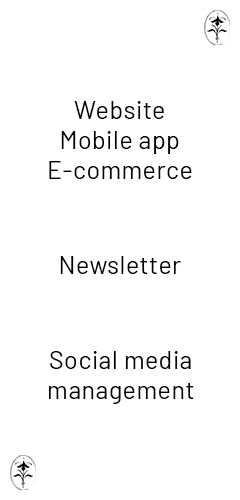
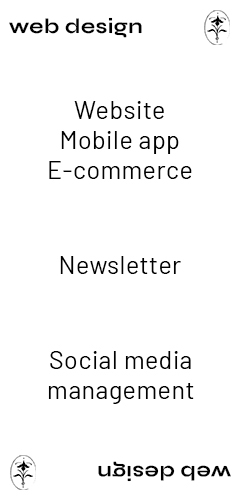
cartes

Changed region(s): [[0.0292, 0.03, 0.6125, 0.09], [0.4083, 0.9, 0.7292, 0.96], [0.7583, 0.93, 0.9625, 0.96]]

diff --git a/components/services.tsx b/components/services.tsx
@@ -43,16 +43,16 @@ function Services() {
 
   useGSAP(() => {
     const cards = cardRefs.current;
-    const position = [15, 32, 50];
+    const position = [50, 60, 80];
     const isMobile = window.innerWidth <= 768;
     const positionz = isMobile ? [0, 0, 0] : [-120, 1, 120];
-    const positionTop = isMobile ? [0, 250, 500] : [400, 400, 400];
+    const positionTop = isMobile ? [0, 250, 500] : [300, 300, 300];
     const rotation = [-15, -7.5, 15];
 
     const tl = gsap.timeline({
       scrollTrigger: {
         trigger: containerCardz.current.querySelector(".cards"),
-        start: "top center",
+        start: "top top",
         end: "end end",
         scrub: 0.5,
         id: 'spreading-timeline'
@@ -70,52 +70,63 @@ function Services() {
 
     // Droit
     cards.forEach((card, index) => {
+      
       tl.to(card, {
         top: `${positionTop[index]}px`,
         left: `${positionz[index]}%`,
         rotation: 0,
         ease: "power2.out",
         duration: 1,
-        delay: 6
+        // delay: 6
       });
     });
 
-    //Retourne
-    cards.forEach((card, index)=>{
-      const frontEl = card.querySelector(".flip-card-front");
+    // Nouvelle timeline pour l'effet de rotation avant/arrière
+    const tlRotation = gsap.timeline({
+      scrollTrigger: {
+        trigger: containerCardz.current.querySelector(".cards"),
+        start: "top center", // Début au milieu de l'écran
+        end: "bottom bottom",
+        scrub: 0.5,
+        id: 'rotation-timeline'
+      }
+    });
+
+    cards.forEach((card, index) => {
       const backEl = card.querySelector(".flip-card-back");
-      const staggerOffset = index * 0.05;
-      const startOffset = 1/3 + staggerOffset;
-      const endOffset = 2/3 + staggerOffset;
+      const frontEl = card.querySelector(".flip-card-front");
 
-      tl.to(frontEl, {
+
+      tlRotation.fromTo(frontEl, {
+      rotationY: 0,
+      zIndex:1000,
+      }, {
+      rotationY: -180,
+        ease: "none",
+        duration: 1,
+        zIndex:0,
+
+      }, "-=1.5");
+      
+
+      tlRotation.fromTo(backEl, {
         rotationY: -180,
-        ease: "power1.out",
-        duration: 1,
-        delay: 6
-      });
-
-      tl.to(backEl, {
+        zIndex: 0,
+        opacity:1,
+      }, {
         rotationY: 0,
-        ease: "power1.out",
-        duration: 1,
-        delay: 6,
-        zIndex:1000
-
-      });
+        zIndex: 1000,
+        ease: "none",
+        duration: 1
+      }, "-=1.5");
+    });
+  }, { scope: containerCardz });
 
       // tl.to(card, {
       //   xPercent: -50,
       //   yPercent: -50,
       //   rotate: rotation[index]*(1- staggerOffset),
-      //   ease: "power1.out",
-      //   zIndex:1000
-
-      // });
-    });
-      
-}, { scope: containerCardz });
-
+      //   ease: "power1.out"
       // ScrollTrigger.create({
       //   trigger: containerCardz.current.querySelector(".cards"),
       //   start: "top top",

diff --git a/components/card.tsx b/components/card.tsx
@@ -4,33 +4,31 @@ import Image from 'next/image';
 const CustomCard = forwardRef(({ item, id, frontSrc, backText }, ref) => {
   
   return (
-    <div className='card' id={id} ref={ref}>
-    <div className='card-wrapper'>
+    <div className='card-wrapper' id={id} ref={ref}>
 
       <div className='flip-card-inner'>
         <div className='flip-card-front'>
-          {/* Face avec photos */}
+          {/* Face photo */}
           <Image 
             priority
-            src={backText}
+            src={frontSrc}
             alt={item.alt[0]}
             width={1000}
             height={0}
-            
+            // z-index='5'
           />
         </div>
 
-        {/* Face avec texte */}
+        {/* Face txt */}
         <div className='flip-card-back'>
         <Image 
             priority
-            src={frontSrc}
+            src={backText}
             alt={item.alt[1]}
             width={1000}
             height={0}
           />
         </div>
-      </div>
     </div>
 
   </div>

diff --git a/styles/App.scss b/styles/App.scss
@@ -1104,7 +1104,7 @@ pointer-events: auto;
 }
 .card{
   position: absolute;
-  top: 70%;
+  top: 50%;
   left: 50%;
   border-radius: 30px;
   transform: translate(-55%,-55%);
@@ -1117,17 +1117,16 @@ pointer-events: auto;
 & div:nth-child(1){
     width: 100%;
     height: 100%;
-    border-radius: 30px;
-    margin: 0;
+    z-index: 10;
   }
   & div:nth-child(2){ // card p
     position: absolute;
-    top: 50%;
-    border-radius: 30px;
-    left: 50%;
-    transform: translate(-50%, -50%);
-    // width: 100%;
-    // height: fit-content;
+    width: 100%;
+    height: 100%;
+    z-index: -10;
+    // top: 50%;
+    // left: 50%;
+    transform: translate(0%, -100%);
   }
 }
 .card-wrapper{
